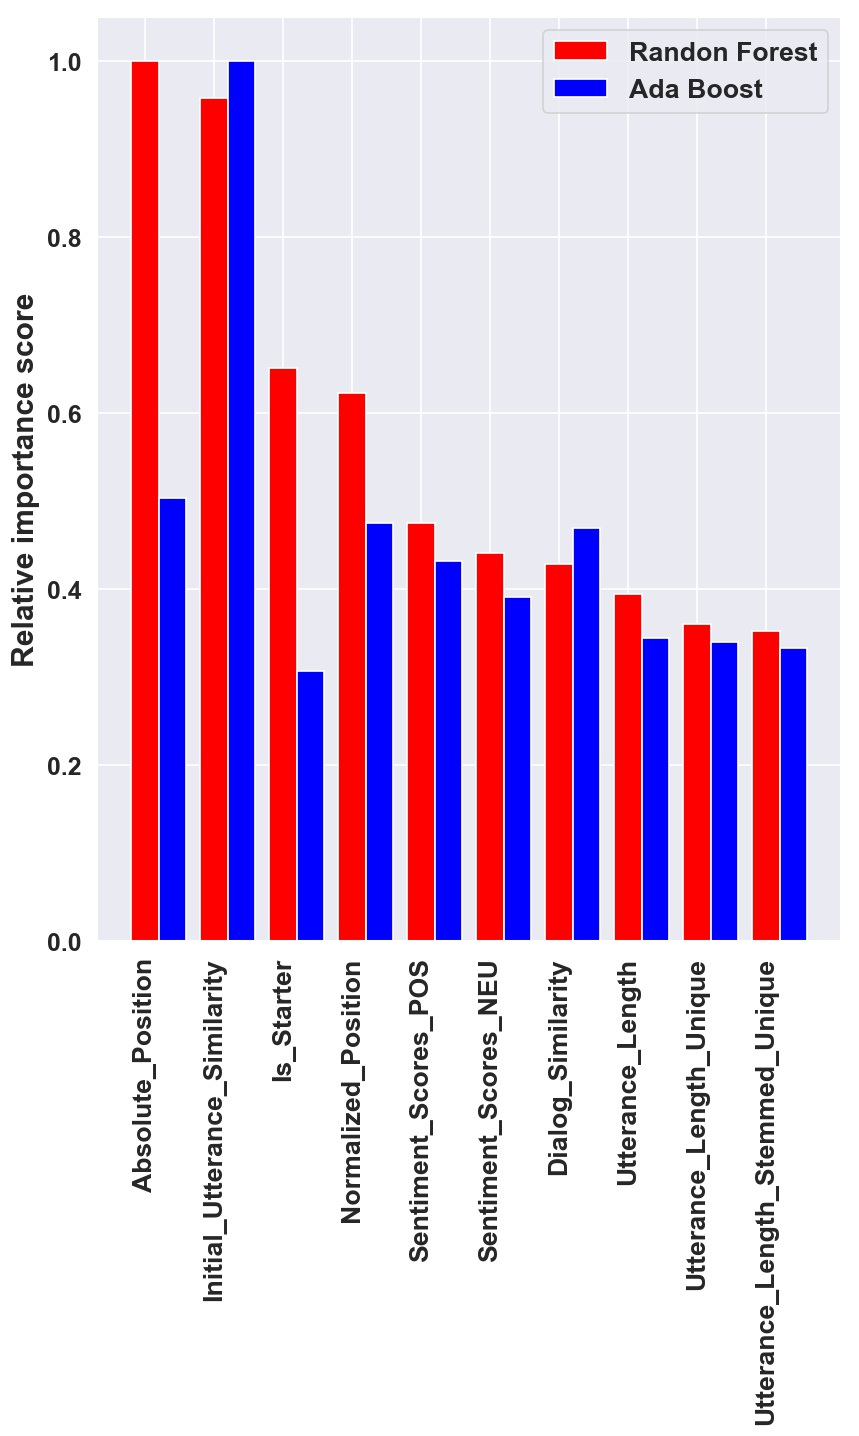
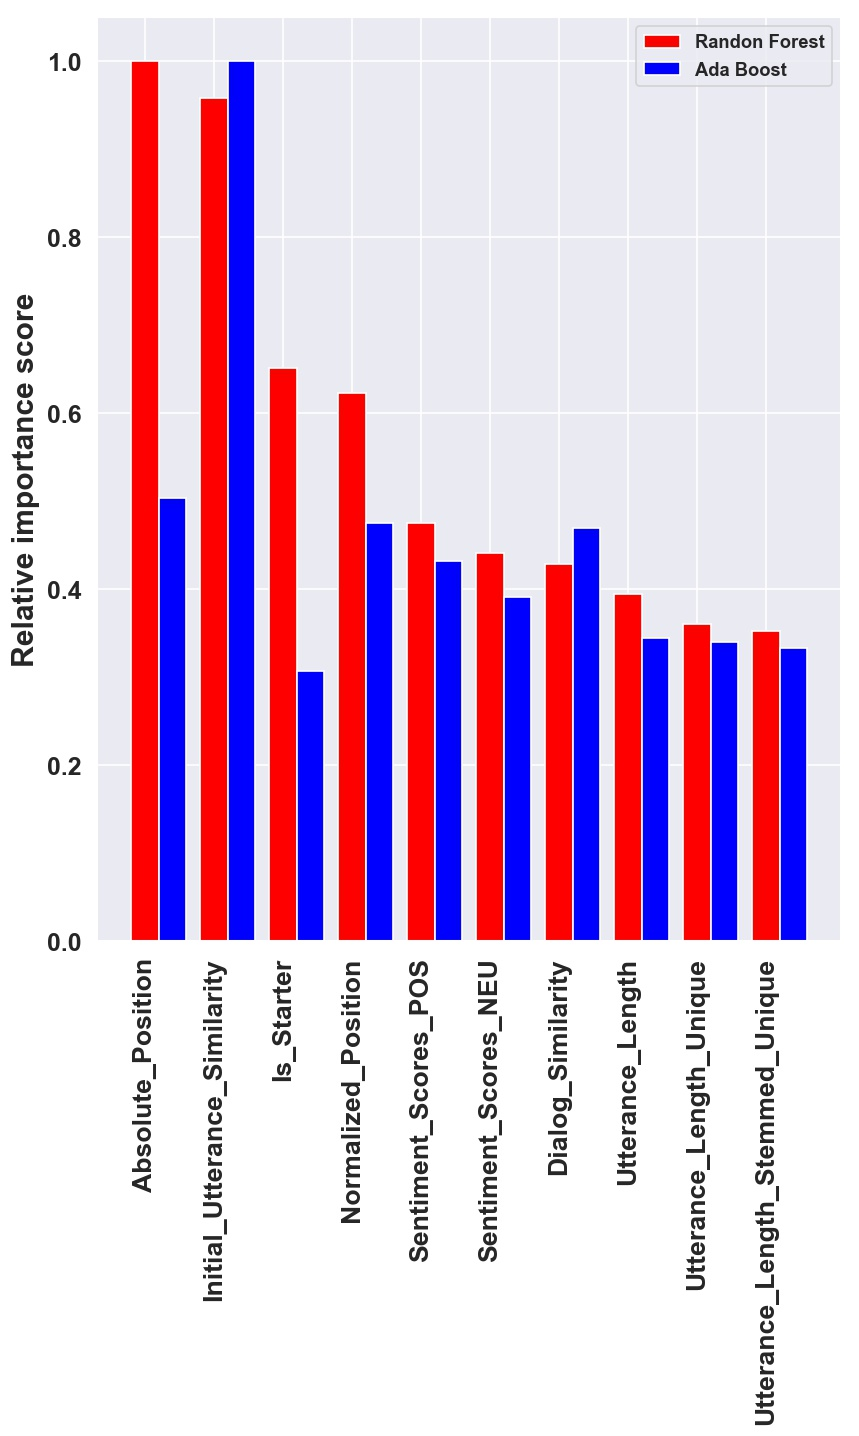
Small changes

Changed region(s): [[0.6356, 0.0, 0.9686, 0.0919]]

diff --git a/plots.py b/plots.py
@@ -52,7 +52,7 @@ def make_tag_occurences_plot(occurences, plt_title, x_label, y_label, filename, 
 
 def make_accuracy_f1_plot(results_filename, plot_filename, logger):
 
-  fig = plt.figure(figsize=(6, 6))
+  fig = plt.figure(figsize=(7, 7))
   sns.set()
 
   results_df = pd.read_csv(logger.get_output_file(results_filename))
@@ -68,9 +68,12 @@ def make_accuracy_f1_plot(results_filename, plot_filename, logger):
     y = f1[i]
     plt.scatter(x, y, marker = markers[i], color = colors[i], label = str(model), s = [80])
 
-  plt.xlabel("Accuracy")
-  plt.ylabel("F1")
-  plt.legend(loc='center left', bbox_to_anchor=(1, 0.5), fancybox=True, shadow=True)
+  plt.xlabel("Accuracy", fontsize = 16)
+  plt.ylabel("F1", fontsize = 16)
+  plt.legend(loc='center left', bbox_to_anchor=(1, 0.5), 
+    fancybox=True, shadow=True, fontsize = 15)
+  plt.xticks(fontsize = 13)
+  plt.yticks(fontsize = 13)
 
   plt.savefig(logger.get_output_file(plot_filename), dpi = 120,  bbox_inches='tight')
   plt.close()
@@ -112,7 +115,7 @@ def make_feats_importance_barplot(feats_imp_filename, plot_filename,
   plt.bar(x_range + 0.4, model1_scores, width = 0.4, color = 'blue')
   
   plt.legend(["Randon Forest", "Ada Boost"], fontsize = 16)
-  plt.savefig(logger.get_output_file(plot_filename), dpi = 120, bbox_inches='tight')
+  plt.savefig(logger.get_output_file(plot_filename), dpi = 120, fontsize = 16, bbox_inches='tight')
   plt.close()
 
 

diff --git a/main.py b/main.py
@@ -3,7 +3,7 @@ from logger import Logger
 
 from test import test_svm, test_random_forest, test_ada_boost
 from test import test_combiner_svm_randf, test_combiner_ada_randf, test_combiner_svm_ada
-from plots import make_tag_occurences_plot, make_accuracy_f1_plot
+from plots import make_tag_occurences_plot, make_accuracy_f1_plot, make_feats_importance_barplot
 from util import get_train_test_valid, read_feats, compute_feats
 
 from feature_importance import FeatureImportanceAnalyzer

diff --git a/test.py b/test.py
@@ -89,7 +89,7 @@ def test_random_forest(X_train, y_train, X_test, y_test, logger,
   base_estimator = RandomForestClassifier()
 
   n_estimators = [int(x) for x in np.linspace(start = 200, stop = 2000, num = 10)]
-  max_features = ['auto', 'sqrt']
+  max_features = ['log2', 'sqrt', None]
   max_depth = [int(x) for x in np.linspace(10, 110, num = 11)]
   max_depth.append(None)
   min_samples_split = [2, 5, 10]

diff --git a/util.py b/util.py
@@ -28,8 +28,6 @@ def get_one_hot_from_str_labels(str_labels):
   atomic_labels_list = list(itertools.chain.from_iterable(atomic_labels_list))
   atomic_labels_list = np.unique(atomic_labels_list).tolist()
 
-  print(atomic_labels_list)
-
   one_hot_labels = []
   for str_label in str_labels:
     one_hot_labels.append([1 if tag in str_label else 0 for tag in atomic_labels_list])
